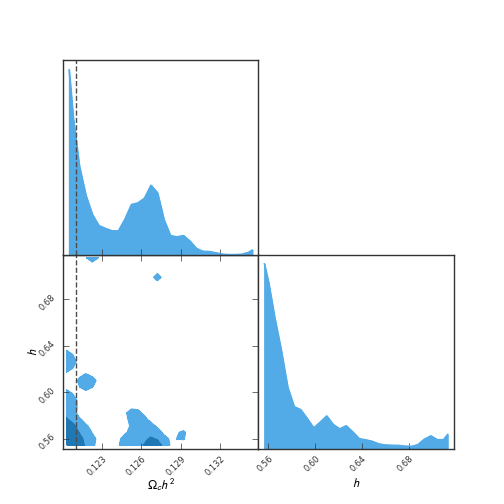
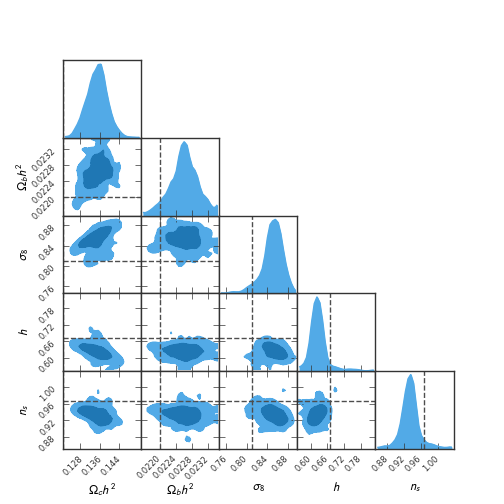
mcmc 5 para

Changed region(s): [[0.0298, 0.119, 0.9226, 0.9821], [0.0298, 0.4762, 0.0595, 0.506]]

diff --git a/mcmc_5para.py b/mcmc_5para.py
@@ -210,19 +210,28 @@ x_decoded = GPfit(computedGP, y_test[10])
 
 
 #### parameters that define the MCMC
-ndim = 2
+
+ndim = 5
 nwalkers = 50  # 500
-nrun_burn = 100  # 300
-nrun = 700  # 700
+nrun_burn = 10  # 300
+nrun = 70  # 700
 
 #### Cosmological Parameters ########################################
+
+# OmegaM = np.linspace(0.12, 0.155, totalFiles)
+# Omegab = np.linspace(0.0215, 0.0235, totalFiles)
+# sigma8 = np.linspace(0.7, 0.9, totalFiles)
+# h = np.linspace(0.55, 0.85, totalFiles)
+# ns = np.linspace(0.85, 1.05, totalFiles)
 
 #### Order of parameters: ['Omega_m', 'Omega_b', 'sigma_8', 'h', 'n_s']
 #        [label, true, min, max]
 
-param1 = ["$\Omega_c h^2$", 0.121, 0.12, 0.155]
-# param2 = ["$\sigma_8$", 0.81, 0.7, 0.9]
-param2 = ["$h$", 0.67, 0.55, 0.85]
+param1 = ["$\Omega_c h^2$", 0.121, 0.12, 0.155] # Actual 0.119
+param2 = ["$\Omega_b h^2$", 0.022, 0.0215, 0.0235]
+param3 = ["$\sigma_8$", 0.81, 0.7, 0.9]
+param4 = ["$h$", 0.67, 0.55, 0.85]
+param5 = ["$n_s$", 0.9667, 0.85, 1.05]
 
 ## Make sure the changes are made in log prior definition too. Variable: new_params
 
@@ -234,42 +243,39 @@ param2 = ["$h$", 0.67, 0.55, 0.85]
 
 # Initialize the chain
 # Choice 1: chain uniformly distributed in the range of the parameters
-pos_min = np.array([param1[2], param2[2]])
-pos_max = np.array([param1[3], param2[3]])
+pos_min = np.array([param1[2], param2[2], param3[2], param4[2], param5[2]])
+pos_max = np.array([param1[3], param2[3], param3[3], param4[3], param5[3]])
 psize = pos_max - pos_min
 pos = [pos_min + psize * np.random.rand(ndim) for i in range(nwalkers)]
 
 # Visualize the initialization
 import corner
 
-fig = corner.corner(pos, labels=[param1[0], param2[0]], range=[[param1[2], param1[3]], [param2[2],
-                                                                                        param2[3]]],
-                    truths=[param1[1], param2[1]])
+fig = corner.corner(pos, labels=[param1[0], param2[0], param3[0], param4[0], param5[0]],
+                    range=[[param1[2],param1[3]], [param2[2], param2[3]], [param3[2],param3[3]],
+                    [param4[2],param4[3]], [param5[2],param5[3]]],
+                    truths=[param1[1], param2[1], param3[1], param4[1], param5[1]])
 fig.set_size_inches(10, 10)
 
 
 ######### MCMC #######################
 
-# OmegaM = np.linspace(0.12, 0.155, totalFiles)
-# Omegab = np.linspace(0.0215, 0.0235, totalFiles)
-# sigma8 = np.linspace(0.7, 0.9, totalFiles)
-# h = np.linspace(0.55, 0.85, totalFiles)
-# ns = np.linspace(0.85, 1.05, totalFiles)
-
+## Sample implementation : http://eso-python.github.io/ESOPythonTutorials/ESOPythonDemoDay8_MCMC_with_emcee.html
 
 def lnprior(theta):
-    p1, p2 = theta
+    p1, p2, p3, p4, p5 = theta
     # if 0.12 < p1 < 0.155 and 0.7 < p2 < 0.9:
-    if param1[2] < p1 < param1[3] and param2[2] < p2 < param2[3]:
+    if param1[2] < p1 < param1[3] and param2[2] < p2 < param2[3] and param3[2] < p3 < param3[3] \
+            and param4[2] < p4 < param4[3] and param5[2] < p5 < param5[3]:
         return 0.0
     return -np.inf
 
 
 def lnlike(theta, x, y, yerr):
-    p1, p2 = theta
+    p1, p2, p3, p4, p5 = theta
     # new_params = np.array([p1, 0.0225, p2 , 0.74, 0.9])
 
-    new_params = np.array([p1, 0.0225, 0.1201, p2, 0.9])
+    new_params = np.array([p1, p2, p3, p4, p5])
     model = GPfit(computedGP, new_params)[28:2507]
 
     return -0.5 * (np.sum(((y - model) / yerr) ** 2.))
@@ -308,10 +314,14 @@ print('mcmc time:', time1 - time0)
 samples = sampler.flatchain
 samples.shape
 
+
+###########################################################################
 samples_plot = sampler.chain[:, :].reshape((-1, ndim))
 
-fig = corner.corner(samples_plot, labels=[param1[0], param2[0]],
-                    truths=[param1[1], param2[1]])
+fig = corner.corner(samples_plot, labels=[param1[0], param2[0], param3[0], param4[0], param5[0]],
+                    range=[[param1[2],param1[3]], [param2[2], param2[3]], [param3[2],param3[3]],
+                    [param4[2],param4[3]], [param5[2],param5[3]]],
+                    truths=[param1[1], param2[1], param3[1], param4[1], param5[1]])
 fig.savefig('corner_' + fileOut + '.png')
 
 np.savetxt(DataDir + 'Sampler_mcmc_ndim' + str(ndim) + '_nwalk' + str(nwalkers) + '_run' + str(
@@ -320,24 +330,27 @@ np.savetxt(DataDir + 'Sampler_mcmc_ndim' + str(ndim) + '_nwalk' + str(nwalkers) 
 ####### FINAL PARAMETER ESTIMATES #######################################
 
 # samples = np.exp(samples)
-p1_mcmc, p2_mcmc = map(lambda v: (v[1], v[2] - v[1], v[1] - v[0]),
+p1_mcmc, p2_mcmc, p3_mcmc, p4_mcmc, p5_mcmc = map(lambda v: (v[1], v[2] - v[1], v[1] - v[0]),
                        zip(*np.percentile(samples, [16, 50, 84], axis=0)))
-print('mcmc results:', p1_mcmc[0], p2_mcmc[0])
+print('mcmc results:', p1_mcmc[0], p2_mcmc[0], p3_mcmc[0], p4_mcmc[0], p5_mcmc[0])
 
 ####### CORNER PLOT ESTIMATES #######################################
 
 
 import corner
 
-fig = corner.corner(samples_plot, labels=[param1[0], param2[0]],
-                    truths=[param1[1], param2[1]])
+fig = corner.corner(samples_plot, labels=[param1[0], param2[0], param3[0], param4[0], param5[0]],
+                    range=[[param1[2],param1[3]], [param2[2], param2[3]], [param3[2],param3[3]],
+                    [param4[2],param4[3]], [param5[2],param5[3]]],
+                    truths=[param1[1], param2[1], param3[1], param4[1], param5[1]])
 fig.savefig('corner_' + fileOut + '.png')
 
 import pygtc
 
-fig = pygtc.plotGTC(samples_plot, paramNames=[param1[0], param2[0]], truths=[param1[1],
-                                                                             param2[1]],
-                    figureSize='MNRAS_page')
+fig = pygtc.plotGTC(samples_plot, paramNames=[param1[0], param2[0], param3[0], param4[0], param5[0]],
+                    truths=[param1[1], param2[1], param3[1], param4[1], param5[1]], figureSize='MNRAS_page')
+
+
 fig.savefig('pygtc_' + fileOut + '.png')
 
 ####### FINAL PARAMETER ESTIMATES #######################################
@@ -356,12 +369,26 @@ fig.savefig('pygtc_' + fileOut + '.png')
 
 
 fig = plt.figure(13214)
-ax1 = fig.add_subplot(1, 1, 1)
-ax2 = fig.add_subplot(2, 1, 1)
-# ax3 = fig.add_subplot(3, 1, 3)
+plt.xlabel('steps')
+ax1 = fig.add_subplot(5, 1, 1)
+ax2 = fig.add_subplot(5, 1, 2)
+ax3 = fig.add_subplot(5, 1, 3)
+ax4 = fig.add_subplot(5, 1, 4)
+ax5 = fig.add_subplot(5, 1, 5)
 
 ax1.plot(np.arange(nrun - 10), sampler.chain[:, 10:, 0].T)
+ax1.text(0.9, 0.9, param1[0], horizontalalignment='center', verticalalignment='center',
+         transform = ax1.transAxes, fontsize = 20)
 ax2.plot(np.arange(nrun - 10), sampler.chain[:, 10:, 1].T)
-# ax3.plot(np.arange(nrun), sampler.chain[:,:, 2].T)
-
+ax2.text(0.9, 0.9, param2[0], horizontalalignment='center', verticalalignment='center',
+         transform = ax2.transAxes, fontsize = 20)
+ax3.plot(np.arange(nrun - 10), sampler.chain[:, 10:, 2].T)
+ax3.text(0.9, 0.9, param3[0], horizontalalignment='center', verticalalignment='center',
+         transform = ax3.transAxes, fontsize = 20)
+ax4.plot(np.arange(nrun - 10), sampler.chain[:, 10:, 3].T)
+ax4.text(0.9, 0.9, param4[0], horizontalalignment='center', verticalalignment='center',
+         transform = ax4.transAxes, fontsize = 20)
+ax5.plot(np.arange(nrun - 10), sampler.chain[:, 10:, 4].T)
+ax5.text(0.9, 0.9, param5[0], horizontalalignment='center', verticalalignment='center',
+         transform = ax5.transAxes, fontsize = 20)
 plt.show()
